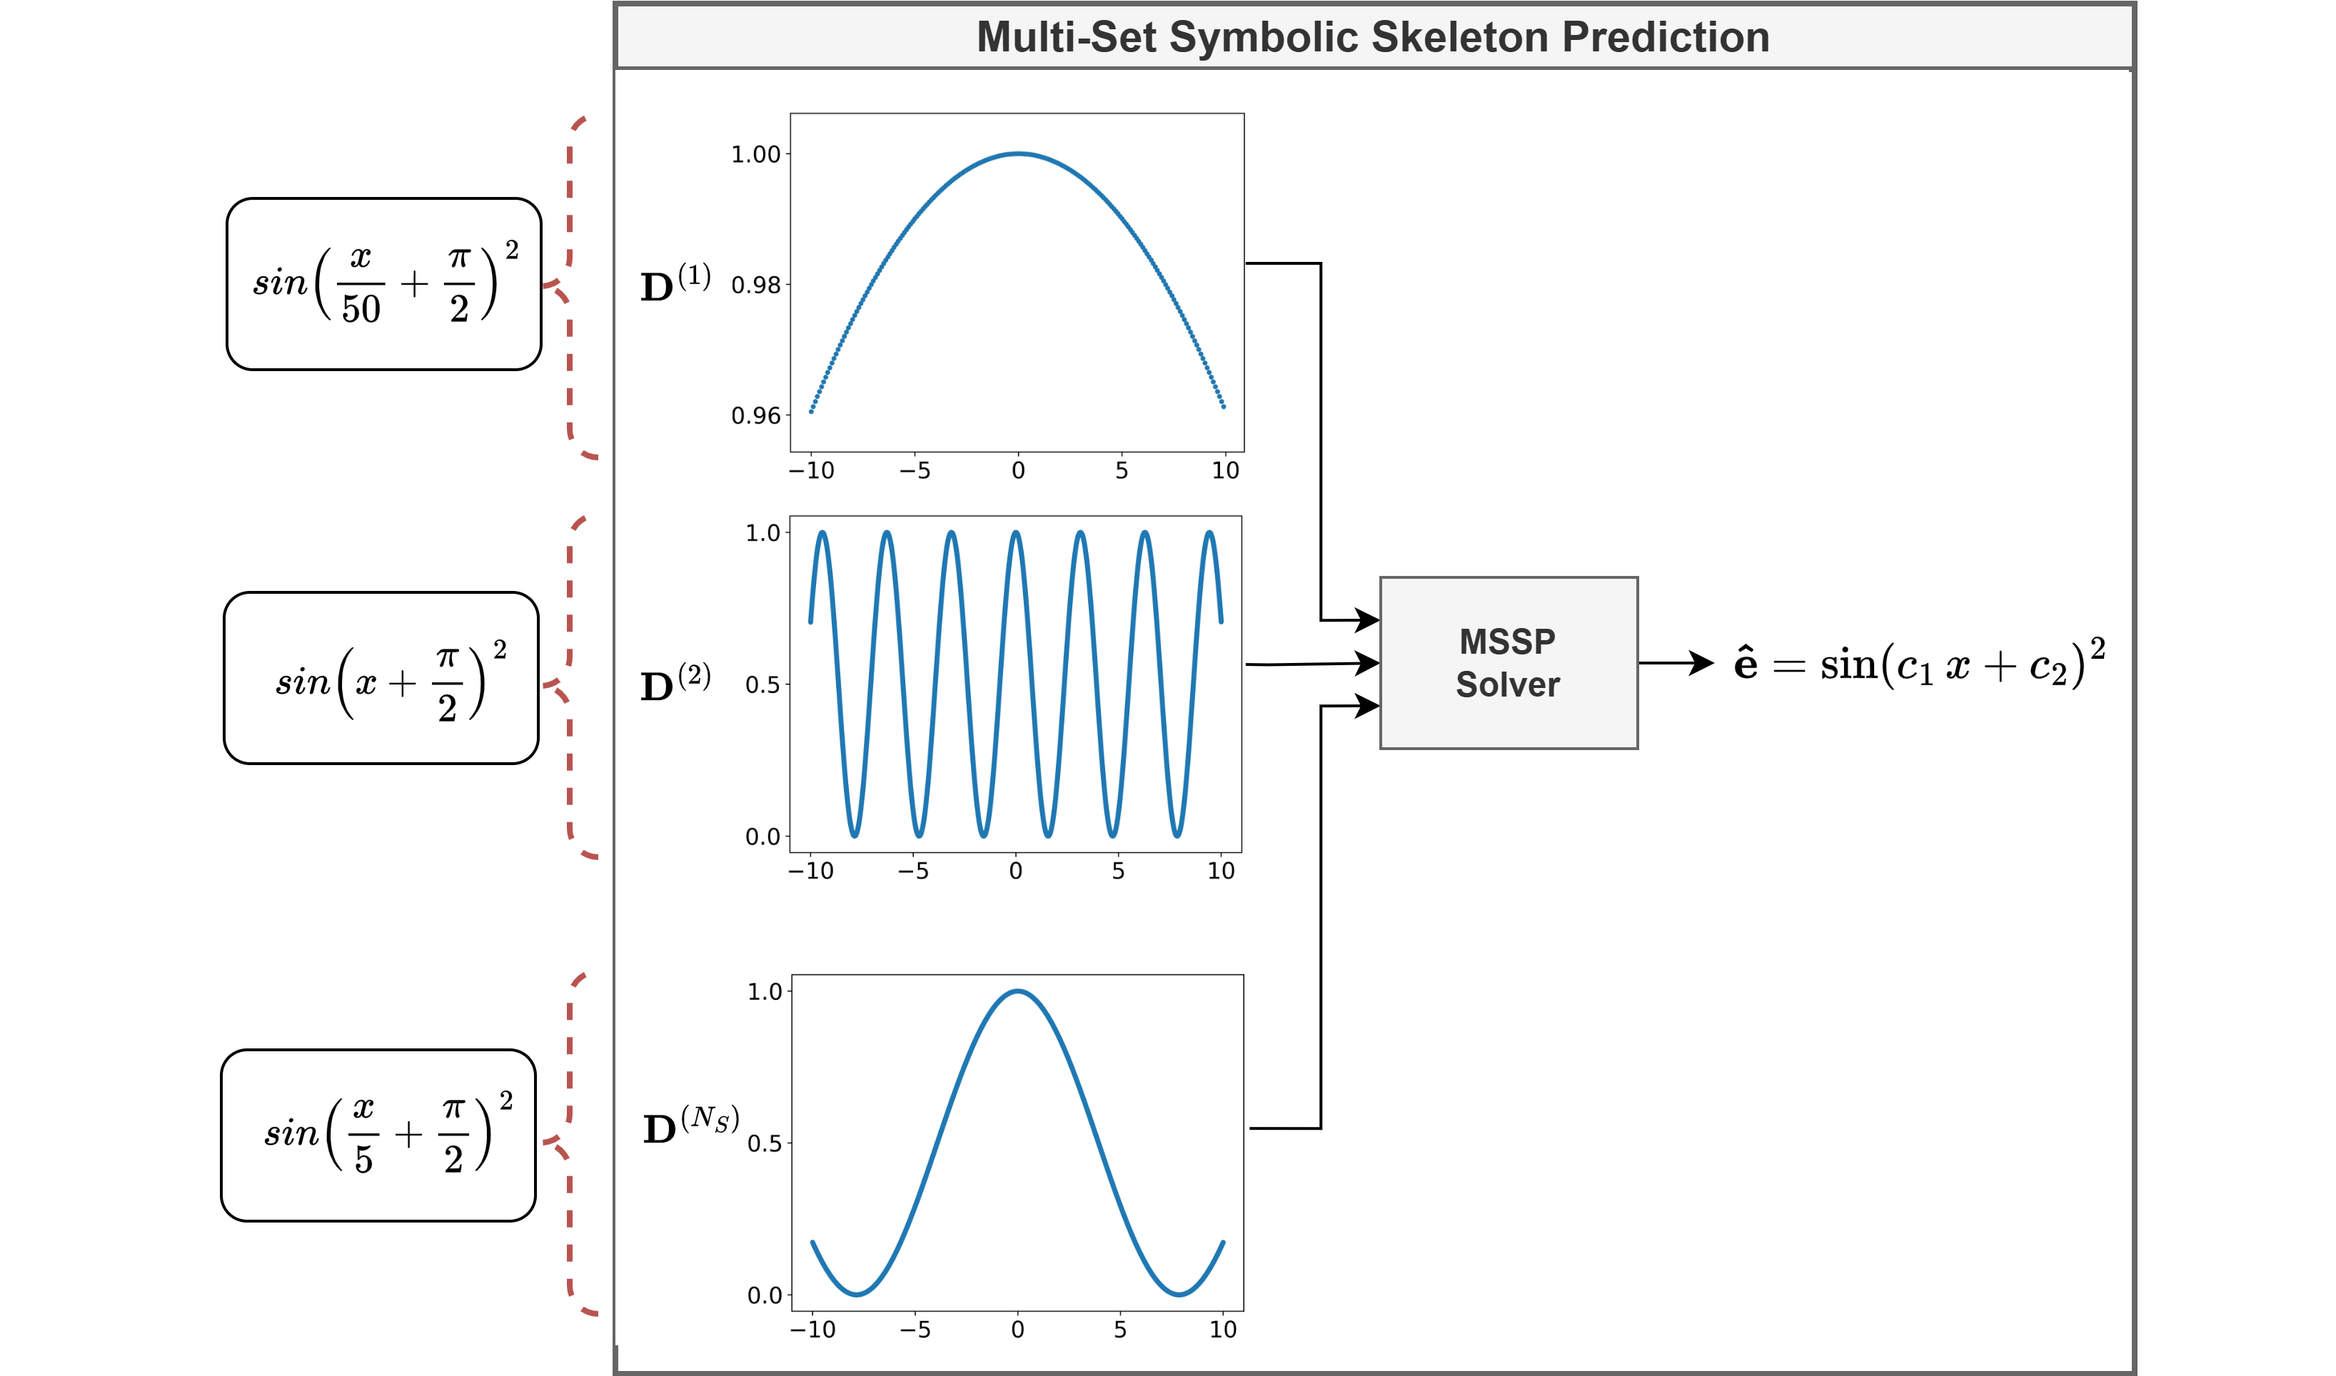
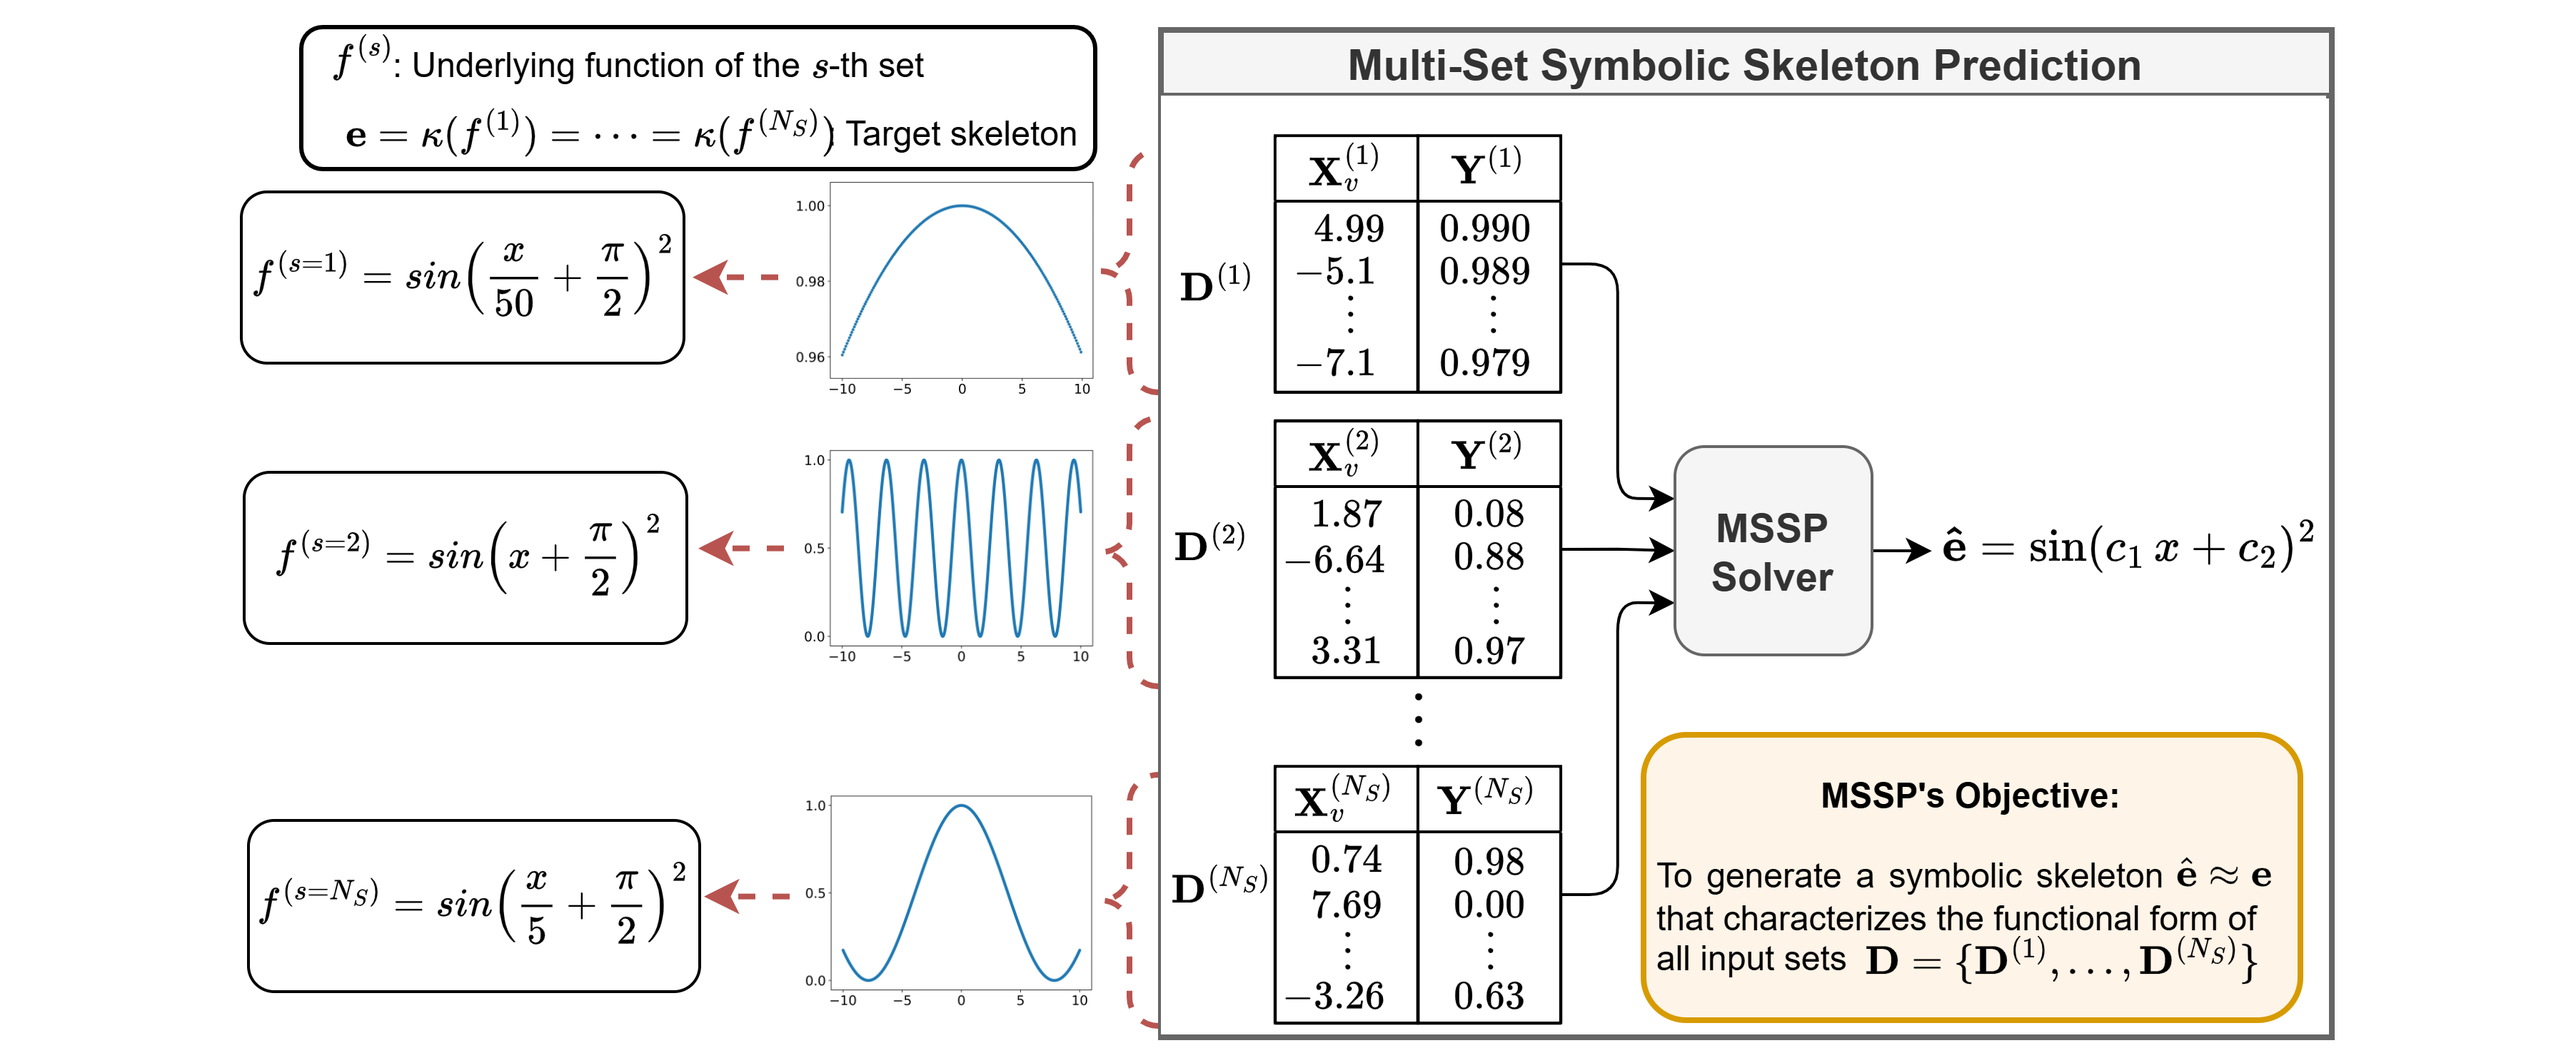
README

diff --git a/README.md b/README.md
@@ -17,17 +17,13 @@ To do this, we introduce a new SR problem called Multi-Set symbolic skeleton pre
 sets of input--response pairs, where all sets correspond to the same functional form but use different equation constants, 
 and outputs a common skeleton expression, as follows:
 
-<p align="center">
-  <img src="figs/MSSP_definition.png" alt="alt text" width="400">
-</p>
 
-The first component of SeTGAP is a novel transformer model called "Multi-Set Transformer" to solve the MSSP problem. The model is pre-trained 
-on a large dataset of synthetic symbolic expressions. The identification process of the functional form between each variable and the system's response is viewed as a sequence 
-of MSSP problems:
-
-<p align="center">
-  <img src="figs/Skeleton.png" alt="alt text" width="500">
-</p>
+<div style="display: flex; justify-content: center;">
+  <figure style="text-align: center;">
+    <img src="figs/MSSP_definition.png" alt="figure" width="75%" style="margin-left: auto; margin-right: auto; display: block;">
+    <figcaption>An example of an MSSP problem.</figcaption>
+  </figure>
+</div>
 
 Our univariate skeleton prediction process can be viewed as an explainability method that produces skeletons to explain the function approximated by the regression model. 
 **This process allows for a deeper understanding of how individual variables contribute to the system's behavior** and facilitates more insightful insights into the model's behavior. 
